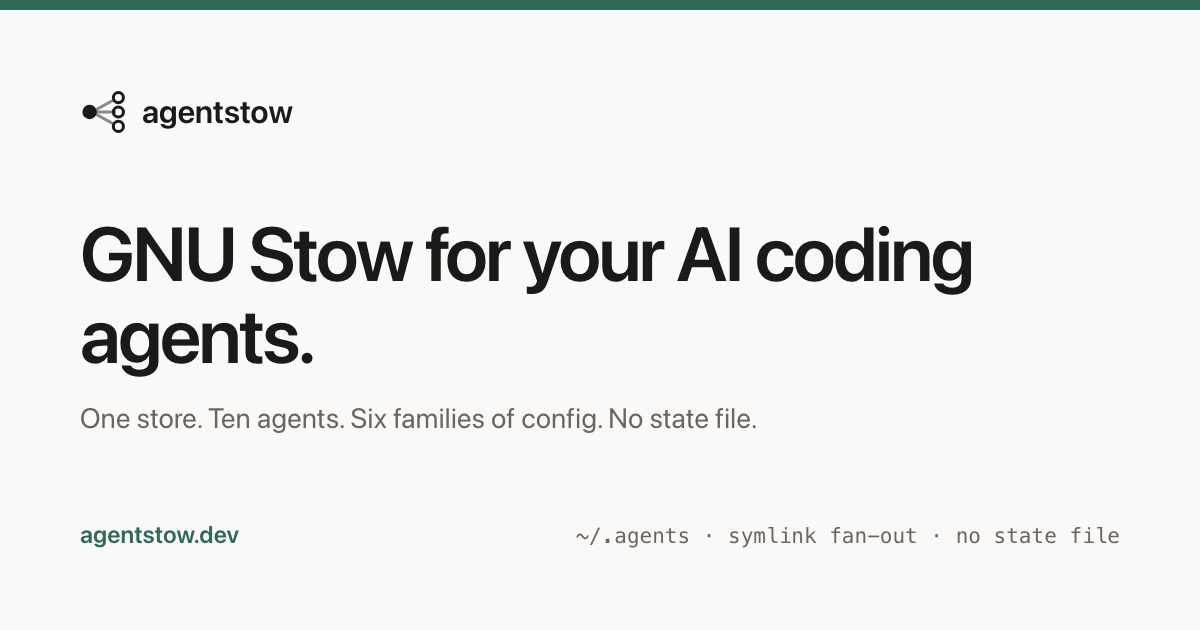
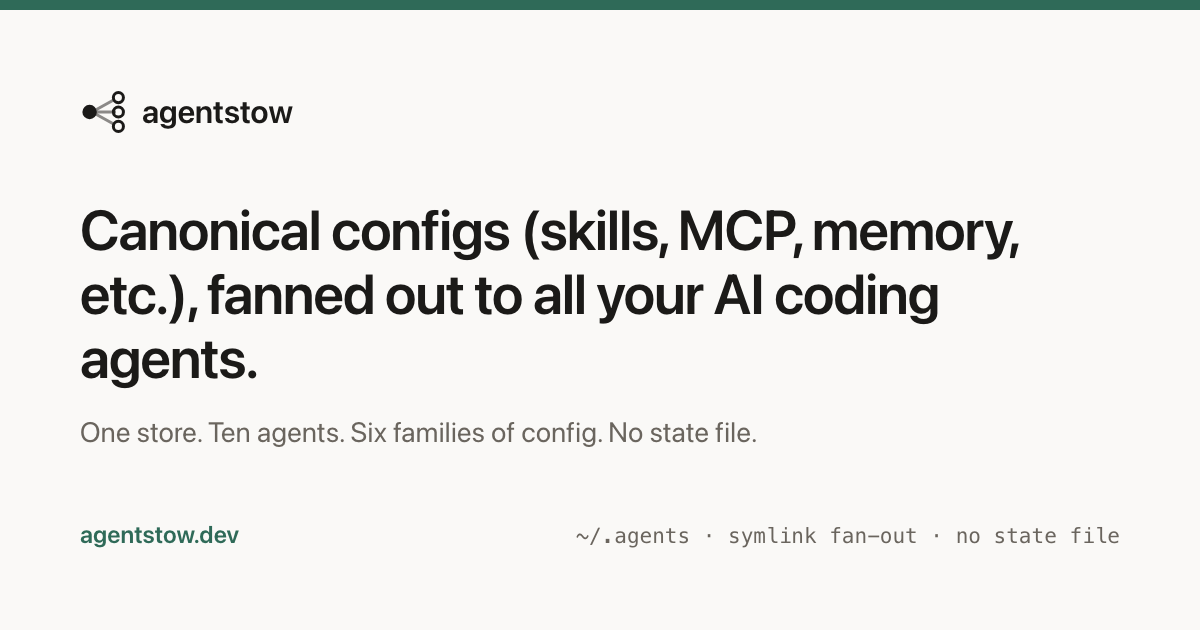
Swap the tagline: canonical configs, fanned out
The hero, OG card, and README drop "GNU Stow for your AI coding
agents" for "Canonical configs (skills, MCP, memory, etc.), fanned
out to all your AI coding agents." The <title> and og:title carry
the same line without the parenthetical, which would truncate.
og.png is re-rasterised, and the h1 measure widens from 18ch to
30ch so the longer headline wraps at two lines, not five.

Claude-Session: https://claude.ai/code/session_0193w5onQUanTSwJpiNRUnHc

Changed region(s): [[0.0617, 0.3317, 0.8633, 0.7238]]

diff --git a/site/public/index.html b/site/public/index.html
@@ -3,7 +3,7 @@
 <head>
 <meta charset="utf-8">
 <meta name="viewport" content="width=device-width, initial-scale=1">
-<title>agentstow — GNU Stow for your AI coding agents</title>
+<title>agentstow — Canonical configs, fanned out to all your AI coding agents</title>
 <meta name="description" content="One Store at ~/.agents/ syncs skills, instructions, MCP servers, slash commands, subagents and hooks to Claude Code, Codex, opencode, Cursor, Windsurf, Roo and more — symlinks where bytes can be identical, key-merge where they can't, and no state file.">
 <link rel="canonical" href="https://agentstow.dev/">
 <link rel="stylesheet" href="/styles.css">
@@ -12,7 +12,7 @@
 <link rel="apple-touch-icon" href="/apple-touch-icon.png">
 <meta property="og:type" content="website">
 <meta property="og:url" content="https://agentstow.dev/">
-<meta property="og:title" content="agentstow — GNU Stow for your AI coding agents">
+<meta property="og:title" content="agentstow — Canonical configs, fanned out to all your AI coding agents">
 <meta property="og:description" content="One canonical store, ten agents, six families of config. Symlink fan-out, stateless key-merge, and nothing it doesn't own is ever touched.">
 <meta property="og:image" content="https://agentstow.dev/og.png">
 <meta name="twitter:card" content="summary_large_image">
@@ -43,7 +43,7 @@
 
   <section>
     <div class="shell">
-      <h1>GNU Stow for your AI coding agents.</h1>
+      <h1>Canonical configs (skills, MCP, memory, etc.), fanned out to all your AI coding agents.</h1>
       <p class="lede"><strong>One Store at <code>~/.agents/</code> holds the single real
       copy of every config you share</strong> — skills, instructions, MCP servers, slash
       commands, subagents, hooks. <code>agentstow sync</code> fans it out to all ten agents

diff --git a/site/og.html b/site/og.html
@@ -17,7 +17,7 @@
   }
   .brandrow { display: flex; align-items: center; gap: 14px;
               font-size: 32px; font-weight: 600; letter-spacing: -0.01em; }
-  h1 { font-size: 76px; line-height: 1.08; letter-spacing: -0.03em; max-width: 20ch; }
+  h1 { font-size: 56px; line-height: 1.14; letter-spacing: -0.02em; max-width: 27ch; }
   .sub { font-size: 28px; color: var(--as-text-secondary); margin-top: 20px; }
   .foot { display: flex; justify-content: space-between; align-items: baseline; }
   .foot .site { color: var(--as-accent); font-weight: 600; font-size: 24px; }
@@ -37,7 +37,7 @@
     agentstow
   </div>
   <div>
-    <h1>GNU Stow for your AI coding agents.</h1>
+    <h1>Canonical configs (skills, MCP, memory, etc.), fanned out to all your AI coding agents.</h1>
     <div class="sub">One store. Ten agents. Six families of config. No state file.</div>
   </div>
   <div class="foot">

diff --git a/site/public/styles.css b/site/public/styles.css
@@ -200,7 +200,7 @@ h1 {
   font-size: var(--as-type-display);
   line-height: var(--as-leading-display);
   letter-spacing: -0.03em;
-  max-width: 18ch;
+  max-width: 30ch;
 }
 
 h2 {

diff --git a/README.md b/README.md
@@ -1,6 +1,6 @@
 # agentstow
 
-**GNU Stow for your AI coding agents.**
+**Canonical configs (skills, MCP, memory, etc.), fanned out to all your AI coding agents.**
 
 One Store at `~/.agents/` holds the single real copy of every config you share — skills,
 instructions, MCP servers, slash commands, subagents and hooks. `agentstow sync` fans it
